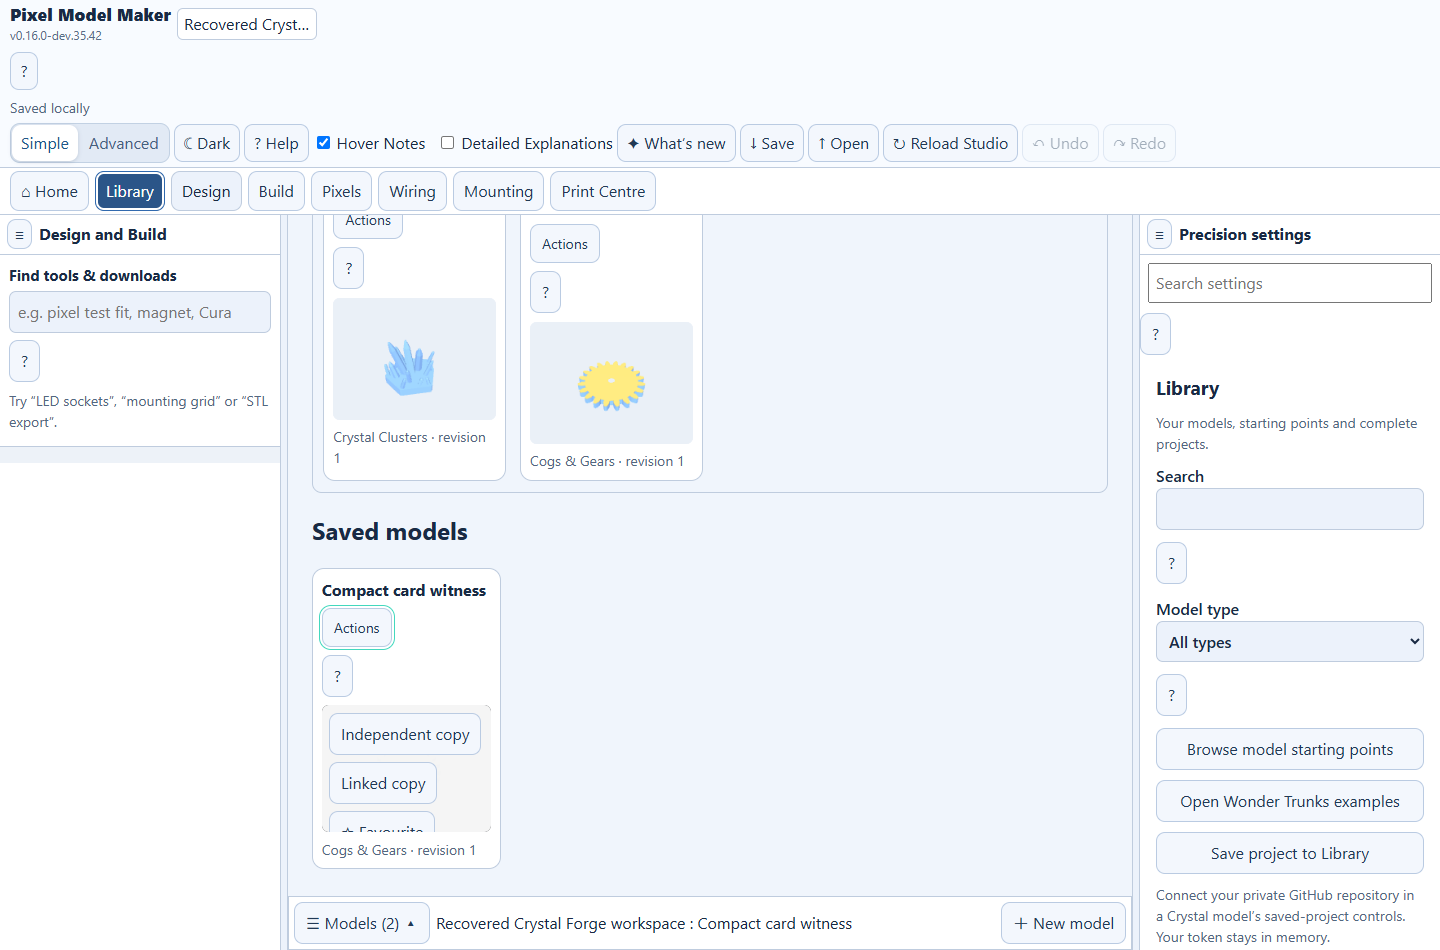
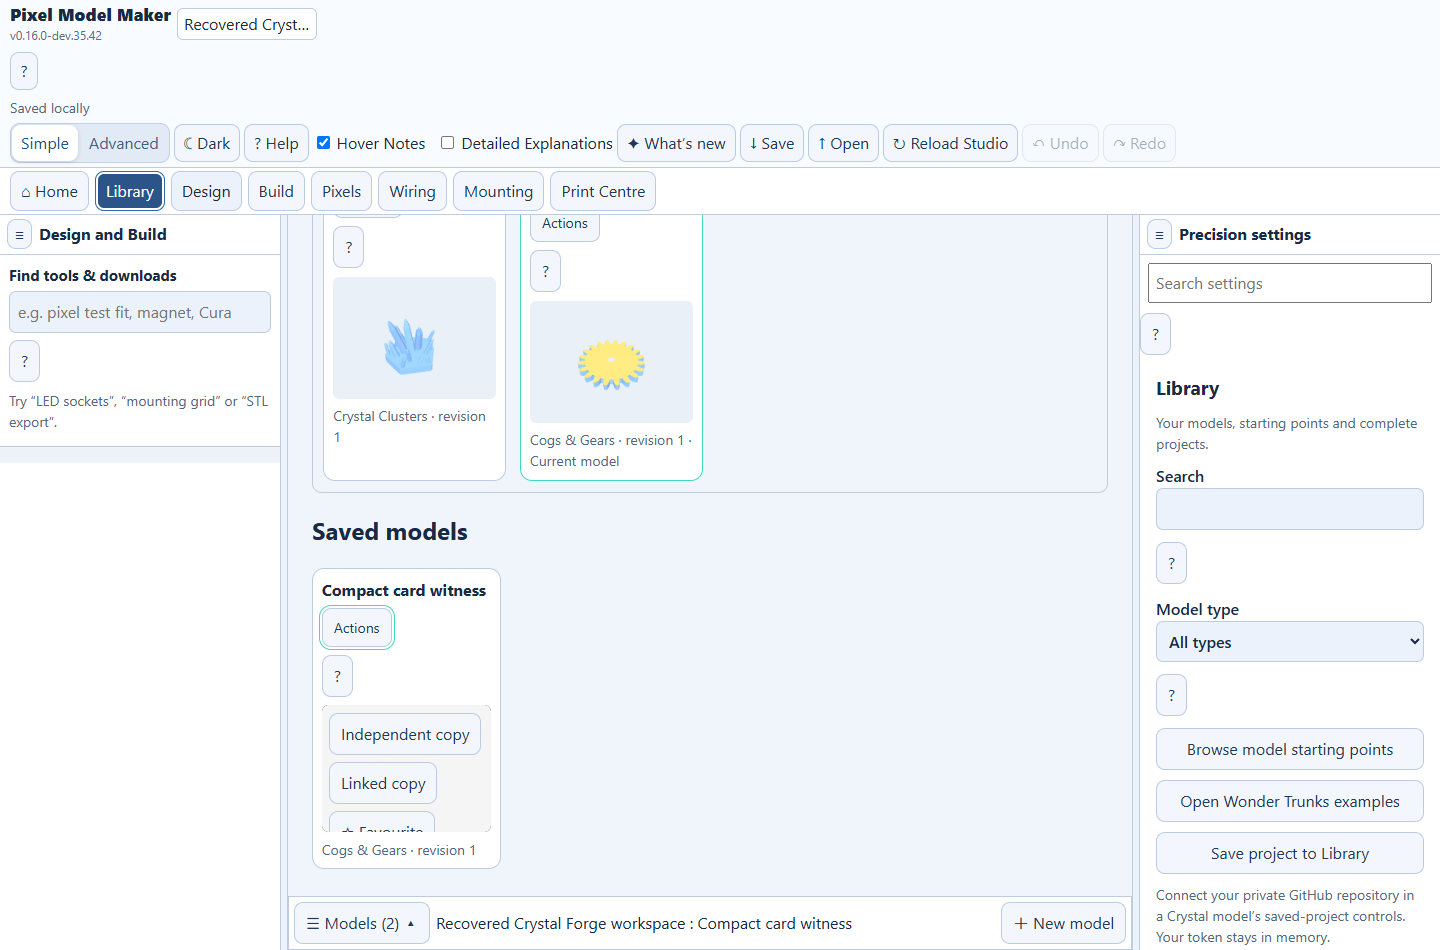
Expose active and linked Library model status

diff --git a/sensory-studio.js b/sensory-studio.js
@@ -2662,8 +2662,11 @@ export function installSensoryStudio({THREE,scene,camera,orbit,renderer,bootstra
   function card(model,root,libraryRecord=null){
    const tile=document.createElement('article');tile.className='sms-tile';
    const generator=registry.list().find(g=>g.typeId===model.generator.typeId);
+   const current=!libraryRecord&&model.id===project.activeTab;
+   const status=[current?'Current model':'',!libraryRecord&&model.link?'Linked copy':''].filter(Boolean).join(' · ');
+   if(current)tile.setAttribute('aria-current','true');
    tile.dataset.modelTheme=model.generator.typeId;
-   tile.innerHTML='<h3>'+esc(model.name)+'</h3><p class="sms-descriptor">'+esc(generator?.displayName||model.generator.typeId)+' · revision '+(libraryRecord?.versions.at(-1).revision||model.revision)+'</p><div class="sms-actions"></div>';
+   tile.innerHTML='<h3>'+esc(model.name)+'</h3><p class="sms-descriptor">'+esc(generator?.displayName||model.generator.typeId)+' · revision '+(libraryRecord?.versions.at(-1).revision||model.revision)+(status?' · '+status:'')+'</p><div class="sms-actions"></div>';
    const preview=savedModelPicture(model,libraryRecord?'library':project.id);
    const actions=tile.querySelector('.sms-actions');
    const action=(name,fn)=>{const b=document.createElement('button');b.textContent=name;b.onclick=fn;actions.append(b);};

diff --git a/src/ui/library-card.css b/src/ui/library-card.css
@@ -20,3 +20,5 @@
 .sms-library-caption>.contextual-help:has(.contextual-help-detail){max-inline-size:100%;overflow-wrap:anywhere}
 .show-detailed-explanations .sms-library-caption>.contextual-help{flex-basis:100%}
 .sms-library-card :is(button,summary):focus-visible{outline:2px solid var(--teal);outline-offset:2px}
+
+.sms-library-card[aria-current=true]{border-color:var(--teal)}

diff --git a/docs/ROADMAP.md b/docs/ROADMAP.md
@@ -247,3 +247,7 @@ On discovering a reproducible failure, add exact steps, input settings, actual/e
 
 Implemented on the draft PR7 branch: engraved five/three-size physical fit samples, side-open wire slots in full-body specimens, chosen-hole calibration applied globally to LED sockets with a visible reversible override, and an all-rights-reserved original-source notice. Physical tolerance, actual cable strain relief and real Cura/print tests remain acceptance requirements. Public source visibility remains unchanged.
 
+
+### WT-023B Library follow-up
+
+WT-023B2a adds compact preview cards with accessible action disclosure. Track implementation and owner review under [#139](https://github.com/connorturansky-svg/crystal-forge/issues/139). WT-023B2b covers saved-project inspection and the transactional destination chooser after the B2a review.
